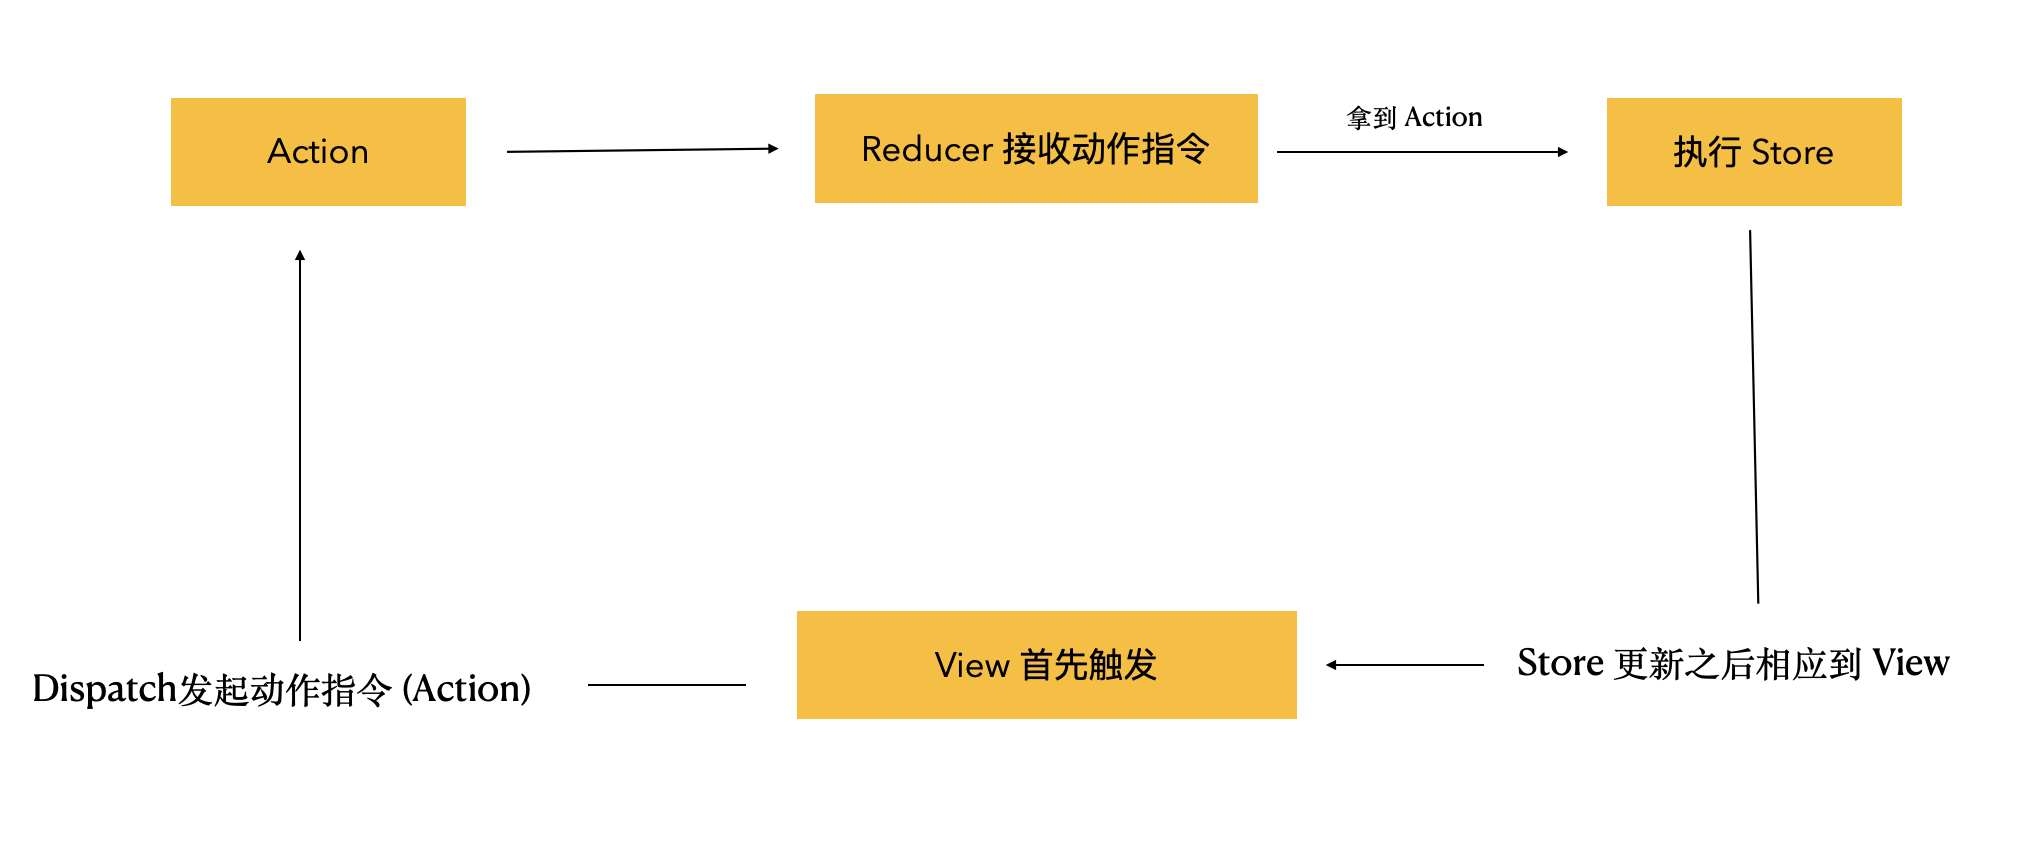
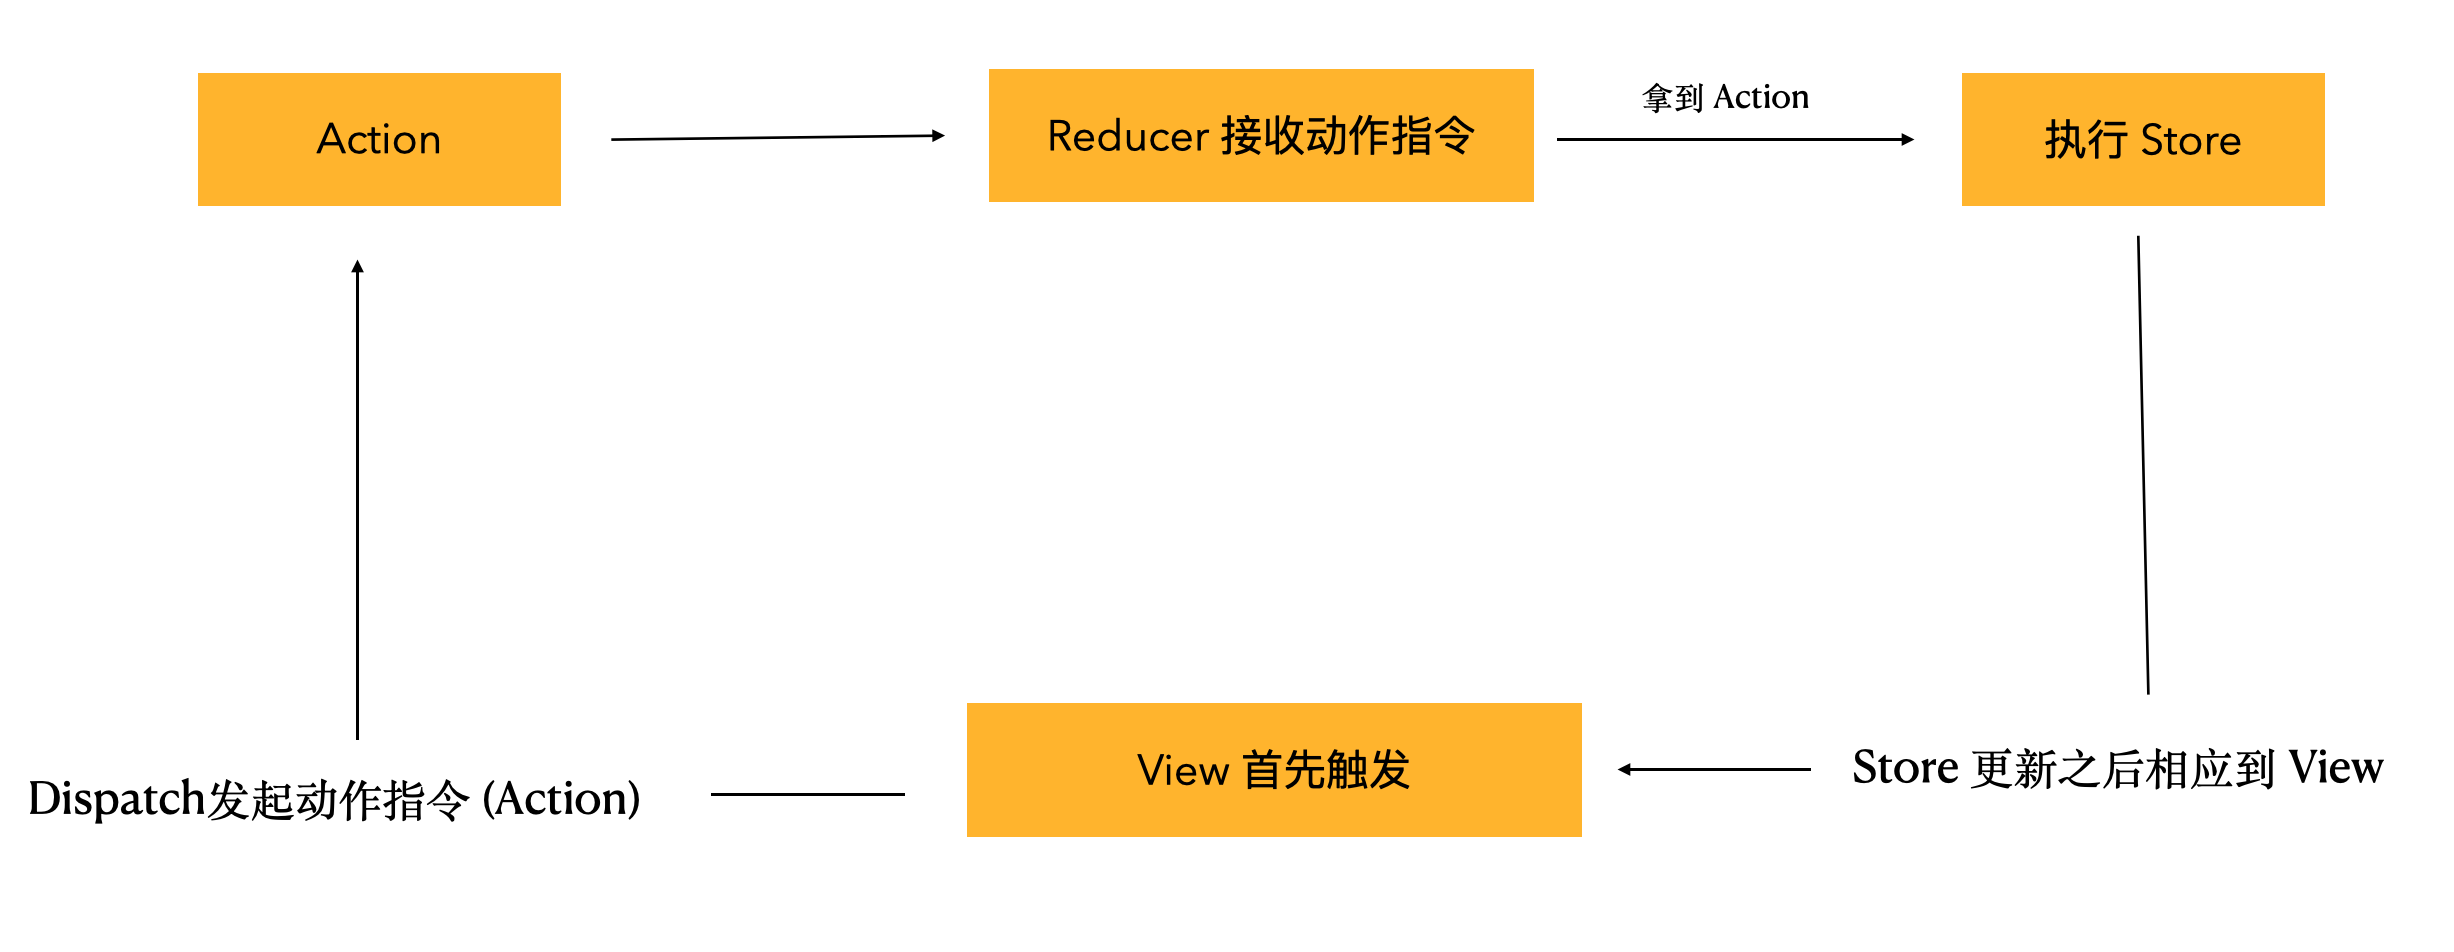
react

diff --git a/docs/.vuepress/config.js b/docs/.vuepress/config.js
@@ -65,10 +65,11 @@ module.exports = {
                 {
                     title: '三大框架',
                     children: [
-                        'React基础',
+                        'React基础1',
                         'React基础2',
                         'React进阶1',
                         'React进阶2',
+                        'React各版本API和源码分析1',
                         'ReactRouter',
                         'Redux',
                         'Redux2'

diff --git a/docs/blog/React各版本API和源码分析1.md b/docs/blog/React各版本API和源码分析1.md
@@ -1,0 +1,204 @@
+# React各版本API和源码分析1
+
+
+## React 16.3.0
+1. 
+2. 
+3. 
+4. 
+
+## React.creatElement 分析
+* `https://www.babeljs.cn/repl` 分析 React
+* `key`: 标志唯一性
+* `ref`: 引用到整个子元素, 改变子元素的属性和方法
+1. createElement
+2. ReactElement
+
+3. 
+```javascript
+import React from 'react';
+import ReactDom from 'react-dom';
+
+
+function App(){
+	return (
+    	<div className="div-class" className="div-class">
+        	<span className="span-class">
+        		ssssssss
+        	</span>
+        	<p className="p-class">
+        		pppppppp
+        	</p>
+      	</div>
+    )
+}
+
+ReactDom.render(<App/>, document.getElementById('root'),()=>{
+	// 处理 render 之后的逻辑，只会执行一次
+})
+
+```
+
+4. 
+```javascript
+"use strict";
+
+var _react = _interopRequireDefault(require("react"));
+
+var _reactDom = _interopRequireDefault(require("react-dom"));
+
+function _interopRequireDefault(obj) { return obj && obj.__esModule ? obj : { default: obj }; }
+
+function App() {
+  return /*#__PURE__*/_react.default.createElement("div", {
+    className: "div-class",
+    className: "div-class"
+  }, /*#__PURE__*/_react.default.createElement("span", {
+    className: "span-class"
+  }, "ssssssss"), /*#__PURE__*/_react.default.createElement("p", {
+    className: "p-class"
+  }, "pppppppp"));
+}
+
+_reactDom.default.render( /*#__PURE__*/_react.default.createElement(App, null), document.getElementById('root'), () => {// 处理 render 之后的逻辑，只会执行一次
+});
+```
+
+
+
+
+
+
+## React.children.map 分析
+```javascript
+// react 处理数组
+
+// 第一种
+[1,2,3].map(item => {
+    return <div key={item}>{item}</div>
+})
+
+// 第二种(适用于后端传过来的数据)
+React.Children.map([1,2,3], (item) => {
+    return <div key={item}>{item}</div>
+})
+```
+
+
+## React fiber 大致思路
+1. 为什么要用 fiber 调度, 它解决了什么问题
+    * react16 以前的调度算法, 采用自顶向下递归, 更新整个子树, 这个过程不能打断, 不能取消。如果子树特别大的情况, 主线程会一直被占用。会造成 页面掉帧, 出现卡顿现象。
+    * react16 推出 fiber 调度, 分为2个阶段:
+        * 一个是 reconciliation 阶段
+            * fiber 在执行过程中以 fiber为基本单位
+            * 每执行完一个 fiber, 都会有一个询问是否有优先级更高的任务一个判断
+            * 如果有优先级更高的任务进来, 就中断当前执, 先执行优先级更高的任务。
+            * 这个阶段会进行 diff, 生成 workInProgressTree, 并且标记好所有的 `side effect`
+                * 数组结构变成链表结构
+                * 任务+过期时间/优先级
+                * reconciliation 可以被打断, 不能渲染到页面上的
+                * commit 阶段，是渲染到页面上的，一次性执行完
+        * 一个是 commit 阶段
+            * 处理所有的 side effect, 执行更新操作。
+            * 此阶段不可中断
+
+## ReactDom.render 分析 
+1. 用法
+    ```javascript
+    ReactDOM.render(<App />, document.getElementById('root'), (instance) => {})
+    ```
+2. Root
+    ```javascript
+    Root: {
+        _reactRootContainer: RootType
+    }
+    ```
+
+3. ReactRoot
+    ```javascript
+    RootType: {
+        _internalRoot: FiberRoot
+    }
+    ```
+
+4. FiberRoot
+    ```javascript
+    // 一个 ReactDom.render() 就只会有一个FiberRoot
+    FiberRoot: {
+        // 当前应用对应的 Fiber 对象
+        currernt: uninitalizedFilber, FiberNode
+        // root 节点
+        containerInfo: containerInfo,
+        // 指向当前已经完成准备工作的 Fiber Tree Root, 在 commit 阶段处理
+        finishedWork: null, // Fiber 链表解构
+        // 过期时间
+        expirationTime: NoWork,
+    }
+    ```
+
+5. FiberNode
+    ```javascript
+    //FiberNode
+    this.tag = tag;
+    this.key = key;
+    this.elementType = null;
+    // Function | String | Symbol | Number | Object
+    this.type = null;
+    this.stateNode = null;
+
+    // Fiber 表示父级 FiberNode
+    this.return = null;
+    // 表示第一个子 FiberNode
+    this.child = null;
+    // 表示紧紧相邻的下一个兄弟 FiberNode
+    this.sibling = null;
+
+    this.index = 0;
+    // 拿到真实的 DOM 实例
+    this.ref = null;
+    // 表示新的 props
+    this.pendingProps = pendingProps;
+    // 当前 fiber 的旧 props
+    this.memoizedProps = null;
+    // 更新队列, 队列内放着即将要发生的变更状态
+    this.updateQueue = null;  // 最终会遍历这个 update 链表
+    // 表示经过所有流程处理后的当前的 state
+    this.memoizedState = null;
+    this.contextDependencies = null;
+
+    this.mode = mmode;
+
+    // effectTag 更新类型, 例如: replace delete update
+    this.effectTag = NoEffect;
+    // 下一个将要处理的副作用
+    this.nextEffect = null;
+    // 第一个需要处理的副作用
+    this.firstEffect = null;
+    // 最后一个将要处理的副作用
+    this.lastEffect = null;
+    // 过期时间是和优先级有关
+    this.expirationTime = NoWork;
+    // 子 fiber 中优先级最高的 fiber
+    this.childExpirationTime = NoWork;
+    // 连接上一个状态的 fiber, 储存之前的镜像
+    this.alternate = null; // 上一次更新时的旧 Fiber = WorkInProgress.alternate;
+    ```
+
+## 面试常见问题
+
+## Hook 源码分析
+
+
+
+
+
+
+
+
+
+
+
+
+
+
+

diff --git a/docs/blog/Redux2.md b/docs/blog/Redux2.md
@@ -36,6 +36,7 @@
 
 ## Redux是如何工作的
 1. 看图示例
+![Redux是如何工作的](Redux工作.png)
 2. Redux `三大核心`
     * `action`: 描述发生什么的一个对象, 是一个`动作`或者`指令`。
         * 必须有一个 type 参数, `{type: 'add'}`。 type参数用来定义`动作指令`

diff --git a/docs/blog/React基础1.md b/docs/blog/React基础1.md
@@ -1,4 +1,4 @@
-# React基础
+# React基础1
 
 
 ## 概念
